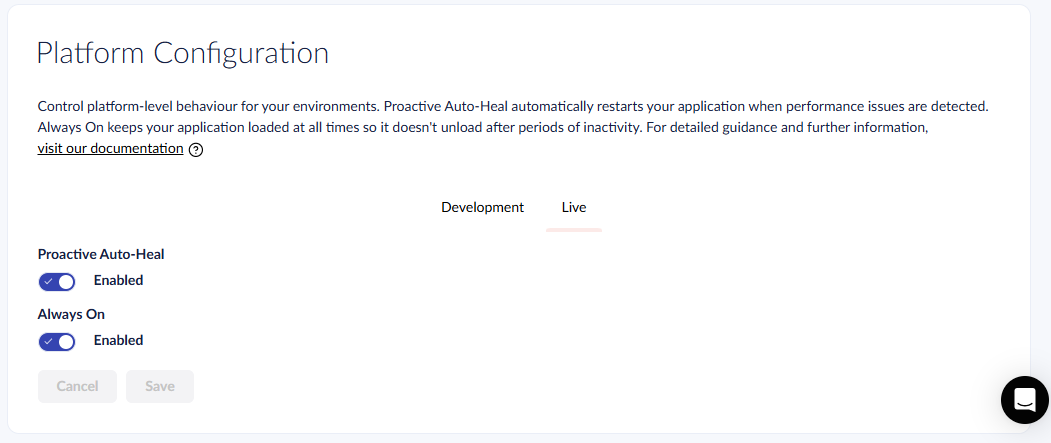
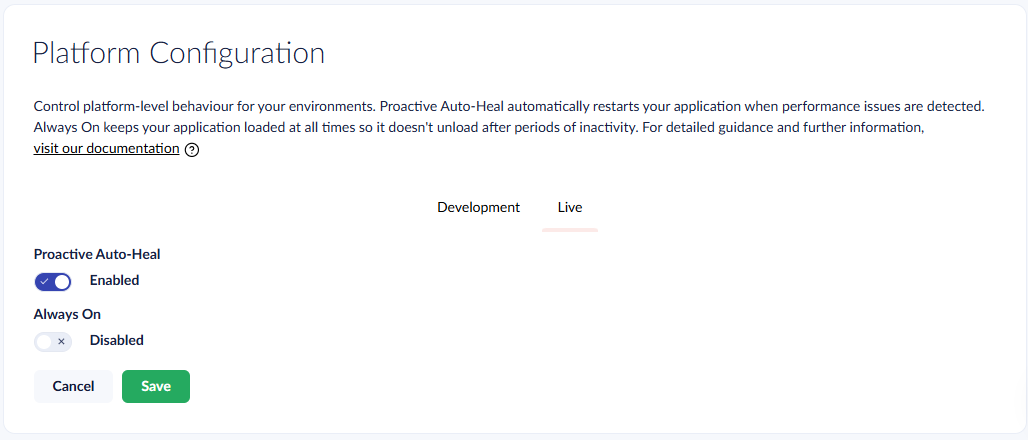
Updated the image and the steps for platform configuration

diff --git a/umbraco-cloud/build-and-customize-your-solution/set-up-your-project/project-settings/platform-configuration.md b/umbraco-cloud/build-and-customize-your-solution/set-up-your-project/project-settings/platform-configuration.md
@@ -80,8 +80,10 @@ To update Proactive Auto-Heal or Always On for your project:
 <figure><img src="../../../.gitbook/assets/platform-configuration-toggles.png" alt="Platform Configuration toggles in Advanced Configuration"><figcaption><p>Platform Configuration toggles</p></figcaption></figure>
 
 4. Toggle **Proactive Auto-Heal** and **Always On** to the desired state.
-5. Select **Save** to apply the changes, or **Cancel** to discard them.
-6. On the confirmation dialog, select **Save** to confirm the change. The environment restarts to apply the new settings. Select **Cancel** on the dialog to keep the environment running and discard the pending changes.
+5. Select **Save** to apply the changes.
+    * Select **Cancel** to discard the changes.
+6. On the confirmation dialog, select **Save** to confirm the change. The environment restarts to apply the new settings. 
+    * Select **Cancel** on the dialog to keep the environment running and discard the pending changes.
 
 <figure><img src="../../../.gitbook/assets/platform-configuration-dialog.png" alt="Platform Configuration confirmation dialog"><figcaption><p>Platform Configuration confirmation dialog</p></figcaption></figure>
 
